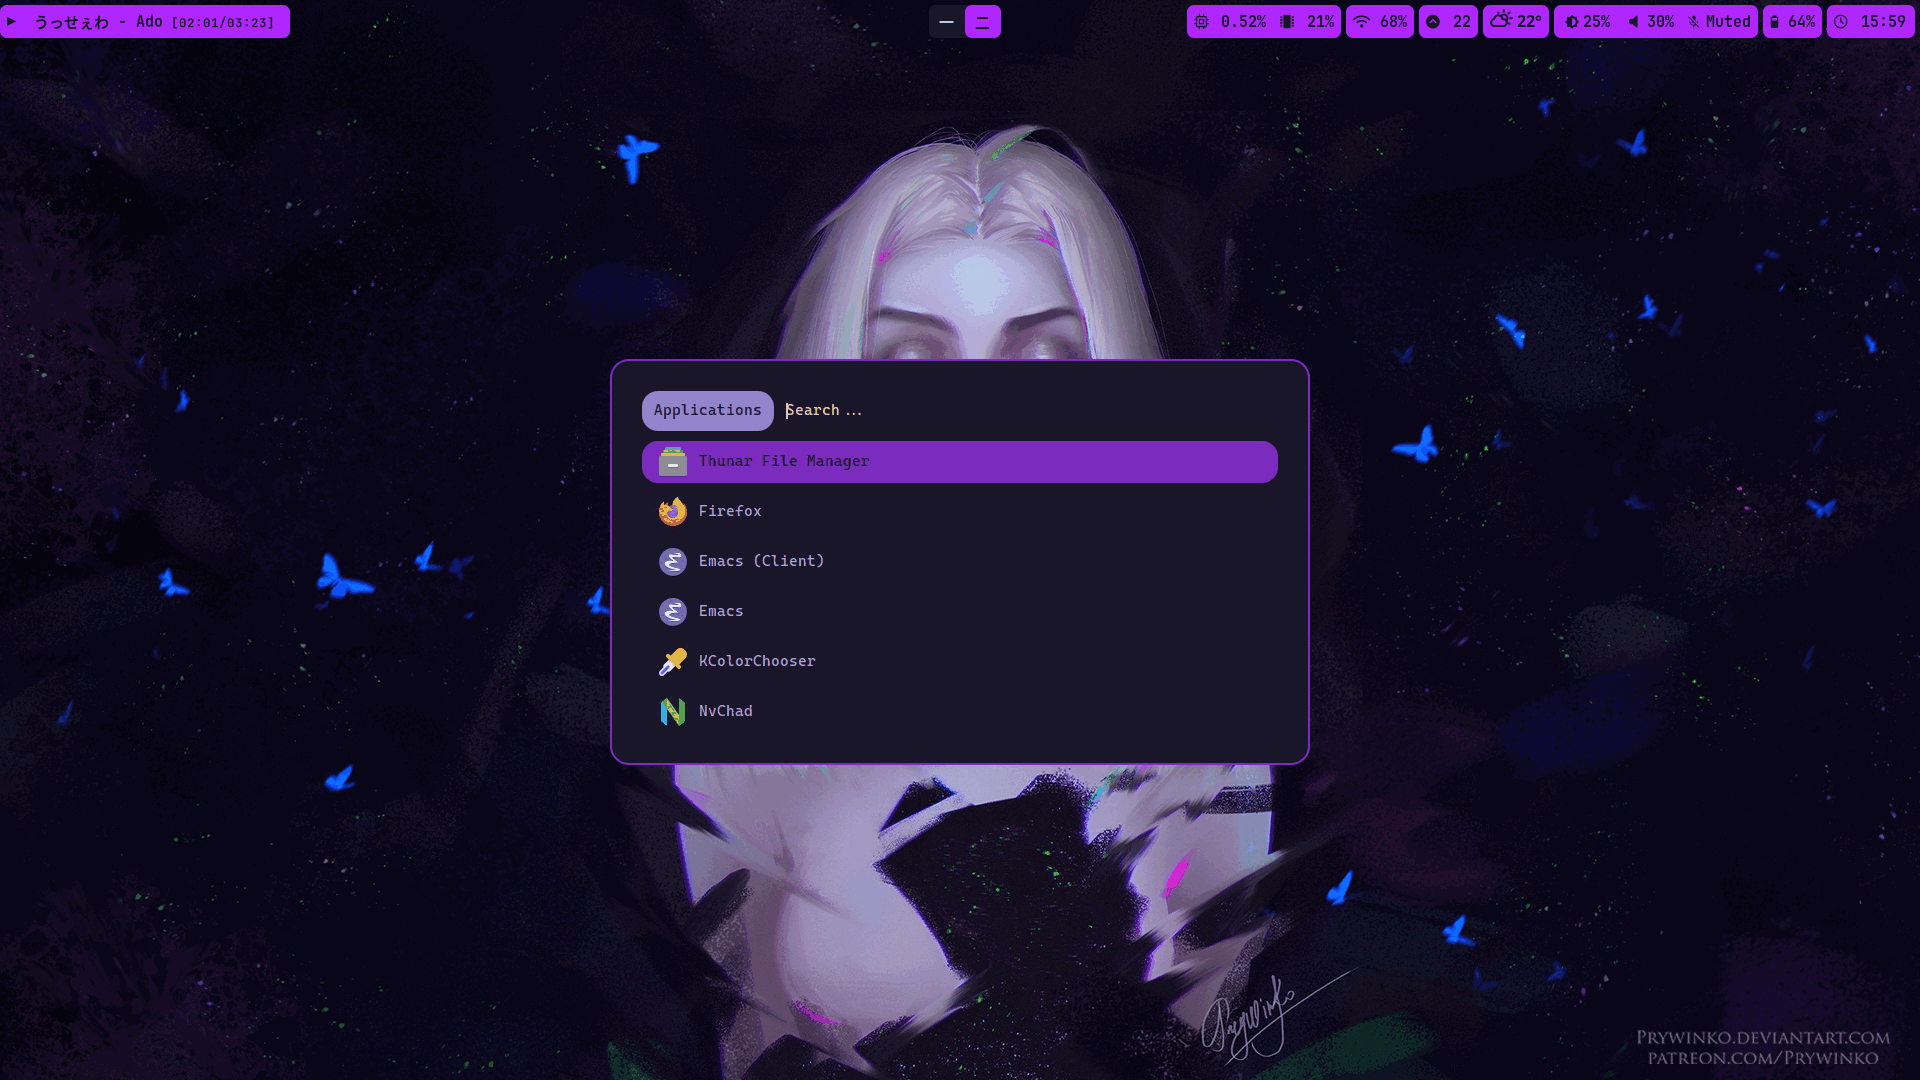
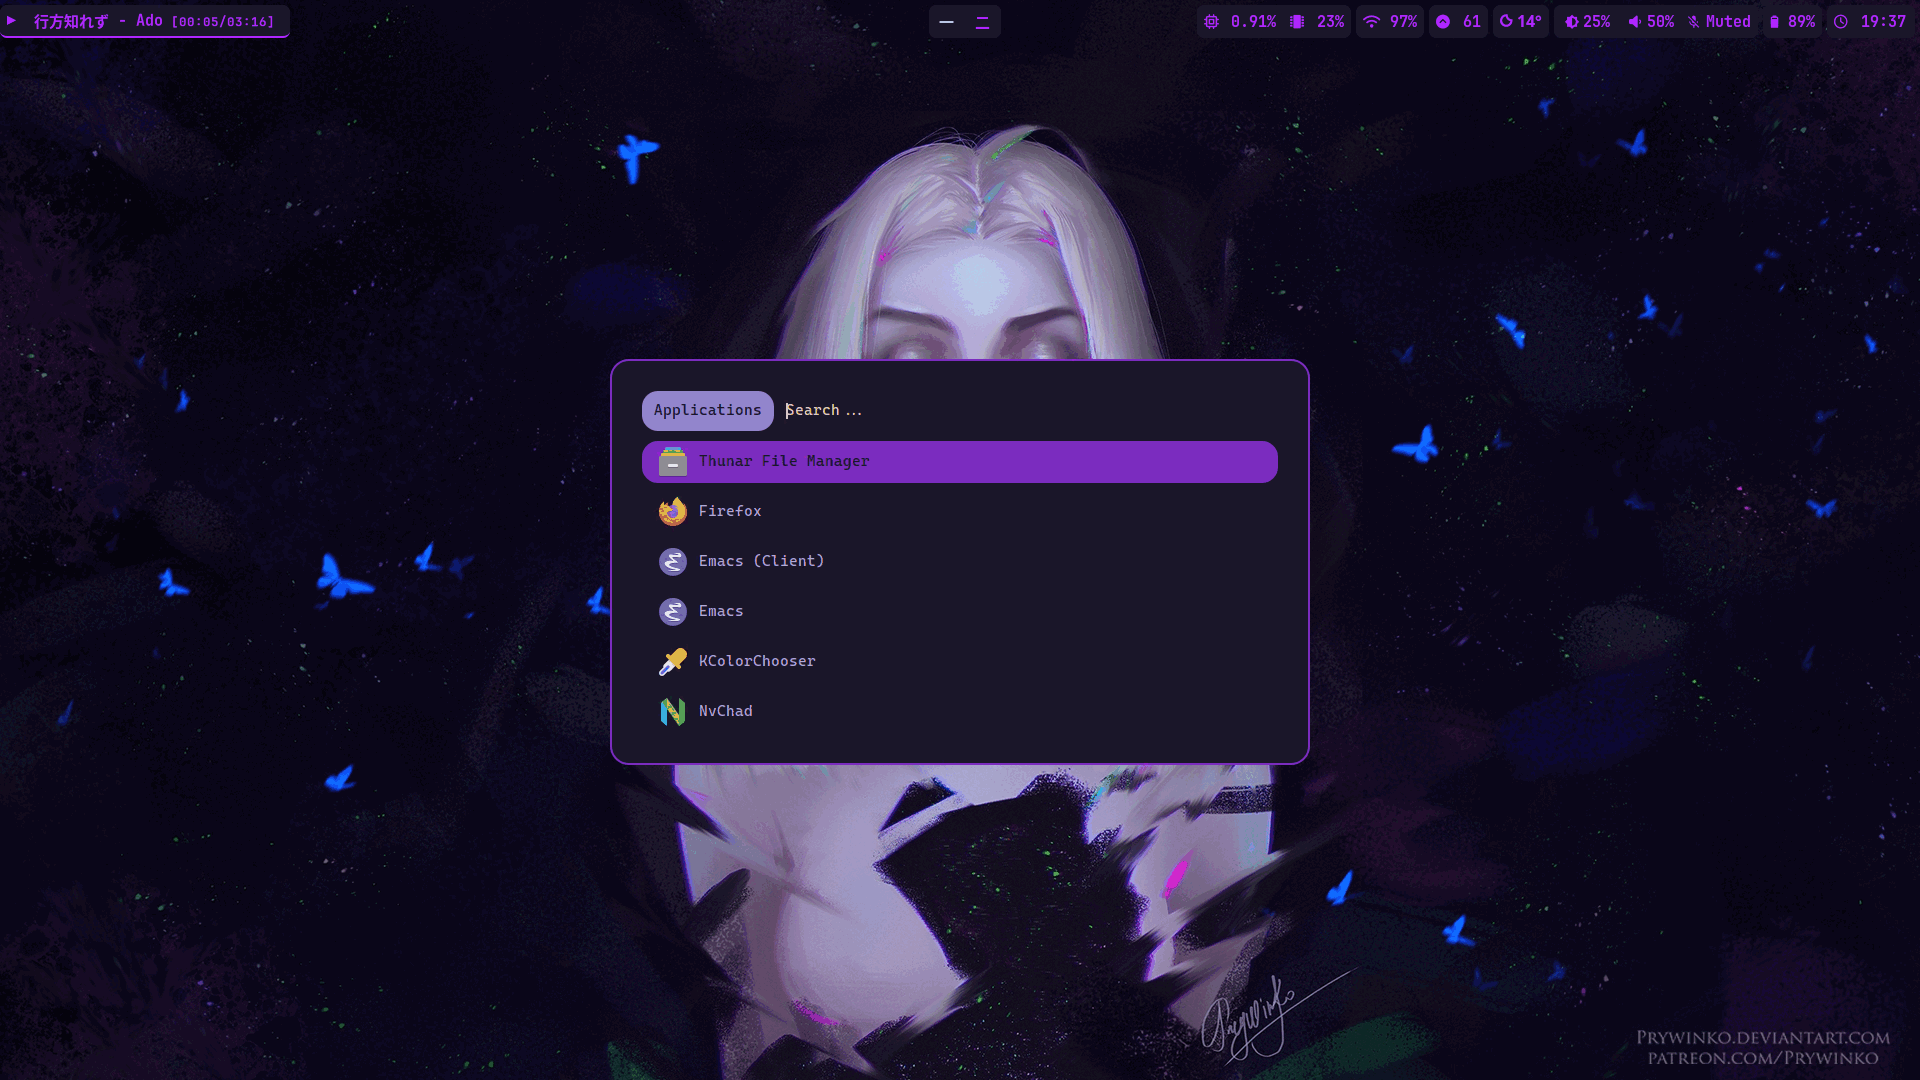
fix: hyprland config

Changed region(s): [[0.5938, 0.0, 1.0, 0.0611], [0.0, 0.0, 0.1562, 0.0306], [0.5, 0.0, 0.5312, 0.0306]]

diff --git a/waybar/violet/style.css b/waybar/violet/style.css
@@ -30,8 +30,8 @@ tooltip {
 }
 
 #workspaces button.active {
-  background: #b026ff; /*   */
-  color: #1b172a;
+  color: #b026ff; /*   */
+  background: #1b172a;
   border-radius: 7px;
 }
 
@@ -74,7 +74,7 @@ tooltip {
 #custom-spotify,
 #custom-weather,
 #modbackground {
-  color: #1b172a;
+  background: #1b172a;
   opacity: 1;
   padding: 0px 7px;
   margin-top: 5px;
@@ -84,8 +84,8 @@ tooltip {
 
 #backlight {
   border-radius: 7px 0px 0px 7px;
-  color: #1b172a;
-  background: #b026ff;
+  background: #1b172a;
+  color: #b026ff;
   opacity: 1;
   padding: 0px 7px;
   margin-top: 5px;
@@ -93,14 +93,14 @@ tooltip {
 }
 
 #pulseaudio {
-  background: #b026ff;
+  color: #b026ff;
   border-radius: 0px;
   border-left: 0px;
   border-right: 0px;
 }
 
 #pulseaudio.microphone {
-  background: #b026ff;
+  color: #b026ff;
   border-left: 0px;
   border-right: 0px;
   border-radius: 0px 7px 7px 0px;
@@ -108,12 +108,12 @@ tooltip {
 }
 
 #cpu {
-  background: #b026ff;
+  color: #b026ff;
   border-radius: 7px 0px 0px 7px;
 }
 
 #memory {
-  background: #b026ff;
+  color: #b026ff;
   border-radius: 0px 7px 7px 0px;
   margin-right: 5px;
 }
@@ -144,7 +144,7 @@ tooltip {
 }
 
 #clock {
-  background: #b026ff;
+  color: #b026ff;
   border-radius: 7px;
   /* margin-left: 10px; */
   margin-right: 5px;
@@ -153,7 +153,7 @@ tooltip {
 }
 
 #network {
-  background: #b026ff;
+  color: #b026ff;
   border-radius: 7px;
   margin-right: 5px;
   border-left: 0px;
@@ -161,13 +161,13 @@ tooltip {
 }
 
 #bluetooth {
-  background: #b026ff;
+  color: #b026ff;
   border-radius: 7px;
   margin-right: 5px;
 }
 
 #battery {
-  background: #b026ff;
+  color: #b026ff;
   border-radius: 7px;
   margin-right: 5px;
   border-left: 0px;
@@ -180,14 +180,14 @@ tooltip {
 }
 
 #mpris {
-  background: #b026ff;
+  color: #b026ff;
   border-radius: 7px;
   margin-right: 5px;
   border-right: 0px;
 }
 
 #mpris.paused {
-  border-bottom: 2px solid #cdd6f4;
+  border-bottom: 2px solid @yellow;
 }
 
 #mpd {
@@ -202,13 +202,13 @@ tooltip {
 }
 
 #custom-pacman {
-  background: #b026ff;
+  color: #b026ff;
   border-radius: 7px;
   margin-right: 5px;
 }
 
 #custom-weather {
-  background: #b026ff;
+  color: #b026ff;
   border-radius: 7px;
   margin-right: 5px;
   font-family: "Weather Icons";
